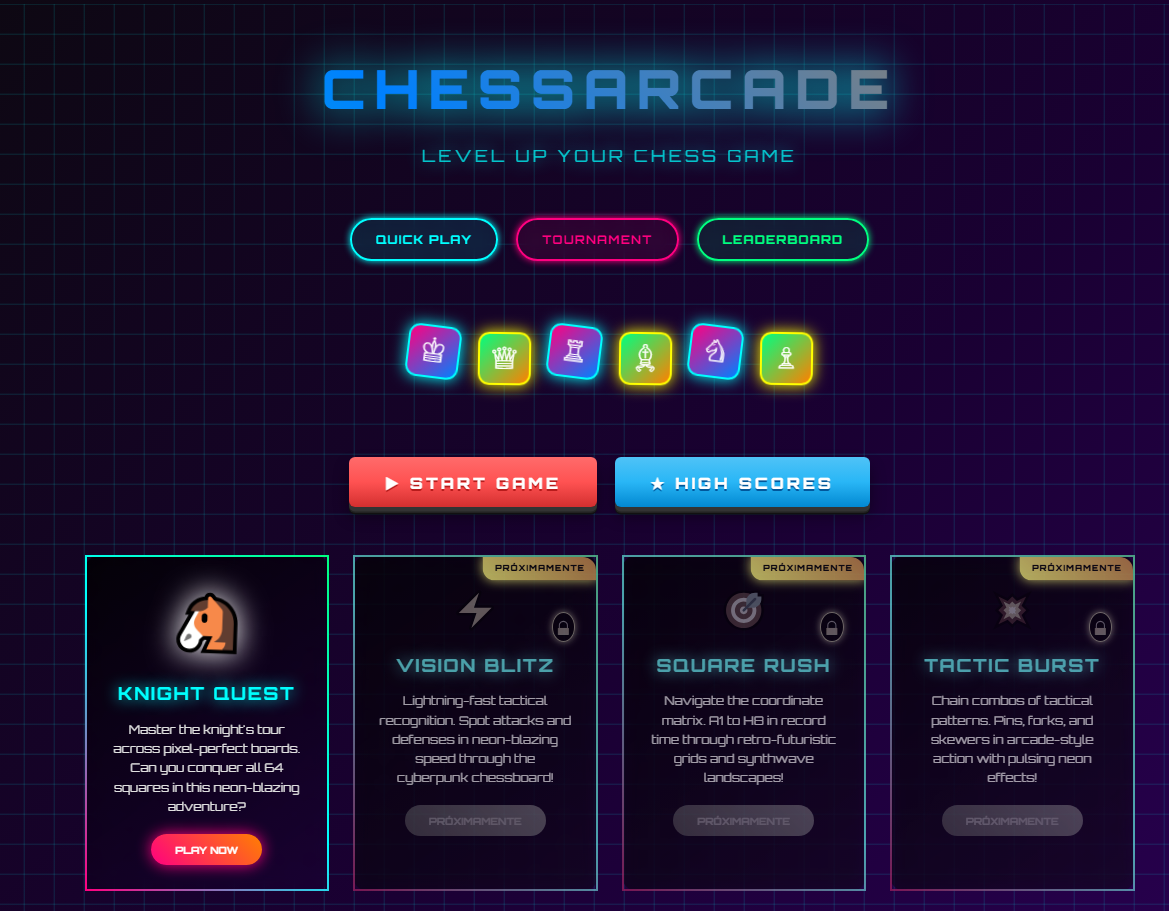
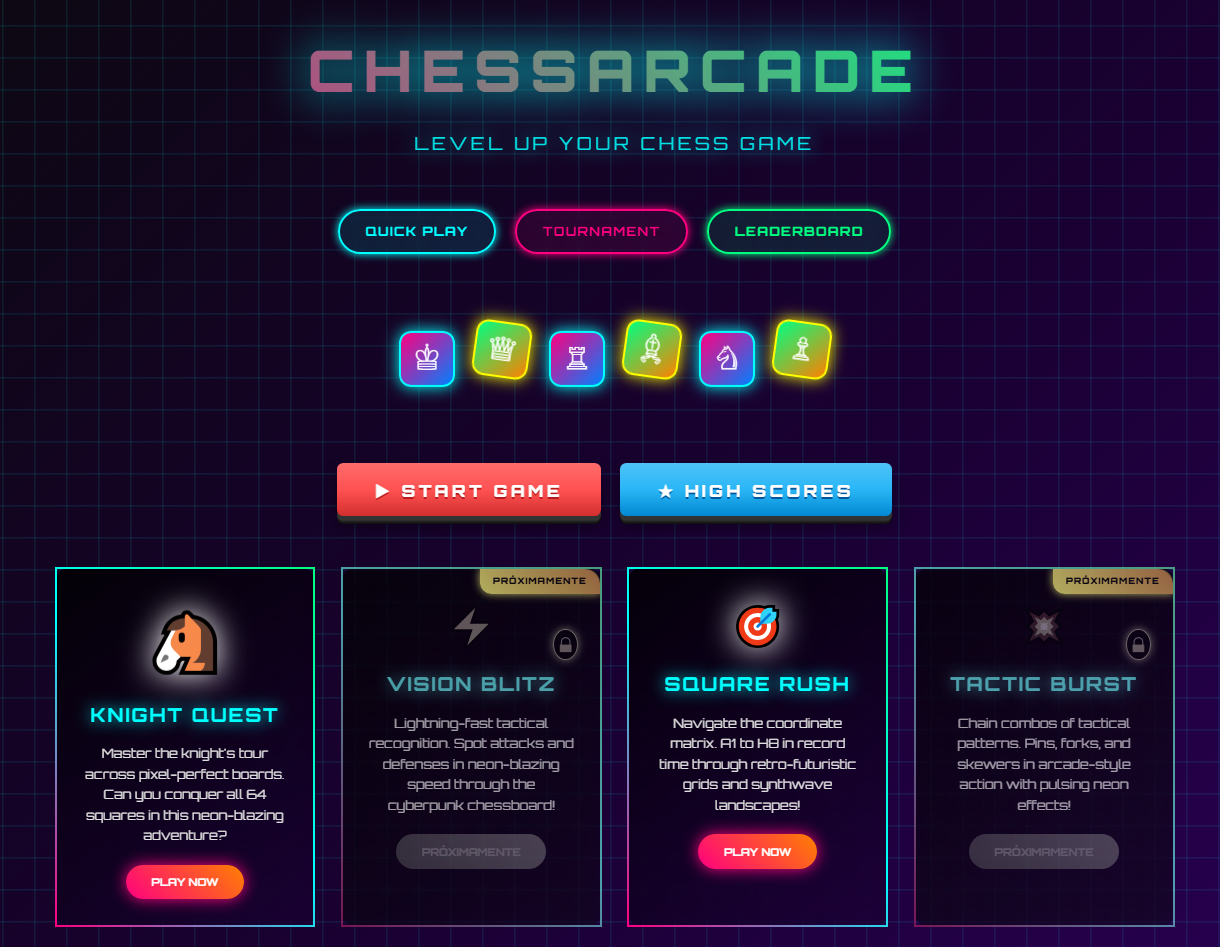
� docs: Complete README overhaul with Square Rush featured
✨ Major Documentation Update:
- Square Rush now prominently featured as first game
- Complete README restructure with detailed game descriptions
- Updated all links to use relative paths for local testing
- Added comprehensive Square Rush gameplay explanation
- Knight Quest maintained as second featured game

� Content Changes:
- New Square Rush section with features and target audience
- Updated player testimonials to include both games
- Corrected project structure showing square-rush as available
- Updated stats: 2/6 games released (was 1/6)
- Added dual-game play buttons with different colors

� README Improvements:
- Better mobile formatting with clear sections
- Educational focus highlighted for Square Rush
- Gameplay examples with ASCII-style previews
- More engaging descriptions for both games

Ready for GitHub publication! �

diff --git a/README.md b/README.md
@@ -2,7 +2,7 @@
 
 ![ChessArcade Banner](./assets/images/chessarcade-banner.png)
 
-## 🚀 [Try Knight Quest Now!](https://github.com/fasmote/ChessArcade/tree/main/games/knight-quest) | [🎮 Play Online](https://fasmote.github.io/ChessArcade/games/knight-quest/)
+## 🚀 [Play Square Rush](./games/square-rush/index.html) | [Play Knight Quest](./games/knight-quest/index.html) | [🎮 Try Both Games!](https://fasmote.github.io/ChessArcade/)
 
 ---
 
@@ -13,8 +13,8 @@
 **ChessArcade** is a collection of chess puzzle games with **neon retro-futuristic aesthetics** inspired by 80s synthwave culture. Transform traditional chess training into an exciting arcade experience with visual effects, electronic sounds, and gamification elements.
 
 #### ✨ **Current Games Available:**
-- **🐴 Knight Quest** - Master the knight's tour across pixel-perfect boards *(Available Now!)*
 - **🎯 Square Rush** - Navigate coordinates A1-H8 in record time *(Available Now!)*
+- **🐴 Knight Quest** - Master the knight's tour across pixel-perfect boards *(Available Now!)*
 - **⚡ Vision Blitz** - Lightning-fast tactical recognition *(Coming Soon)*
 - **💥 Tactic Burst** - Chain tactical patterns *(Coming Soon)*
 - **🏆 Checkmate Countdown** - Find mate in X moves *(Coming Soon)*
@@ -22,9 +22,9 @@
 
 #### 🎯 **Features:**
 - **Responsive Design**: Optimized for desktop and mobile
-- **Web Audio API**: Immersive synthetic soundscapes
-- **Progressive Difficulty**: From beginner 4x4 to expert 10x10 boards
-- **Smart Hints**: AI-powered suggestions using Warnsdorff's algorithm
+- **Progressive Difficulty**: From beginner-friendly to expert challenges
+- **Smart Learning**: Educational gameplay with immediate feedback
+- **Audio Control**: Immersive sound effects with easy toggle
 - **Local Storage**: Save your best scores and progress
 - **Modern CSS**: Smooth animations and neon visual effects
 
@@ -35,8 +35,8 @@
 **ChessArcade** es una colección de juegos de rompecabezas de ajedrez con **estética retro-futurista neón** inspirada en la cultura synthwave de los 80s. Transforma el entrenamiento tradicional de ajedrez en una experiencia arcade emocionante con efectos visuales, sonidos electrónicos y elementos de gamificación.
 
 #### ✨ **Juegos Disponibles Actualmente:**
-- **🐴 Knight Quest** - Domina el recorrido del caballo en tableros perfectos *(¡Disponible Ahora!)*
 - **🎯 Square Rush** - Navega coordenadas A1-H8 en tiempo récord *(¡Disponible Ahora!)*
+- **🐴 Knight Quest** - Domina el recorrido del caballo en tableros perfectos *(¡Disponible Ahora!)*
 - **⚡ Vision Blitz** - Reconocimiento táctico ultrarrápido *(Próximamente)*
 - **💥 Tactic Burst** - Encadena patrones tácticos *(Próximamente)*
 - **🏆 Checkmate Countdown** - Encuentra mate en X jugadas *(Próximamente)*
@@ -44,30 +44,85 @@
 
 #### 🎯 **Características:**
 - **Diseño Responsivo**: Optimizado para escritorio y móvil
-- **Web Audio API**: Paisajes sonoros sintéticos inmersivos
-- **Dificultad Progresiva**: Desde principiante 4x4 hasta experto 10x10
-- **Pistas Inteligentes**: Sugerencias con IA usando algoritmo de Warnsdorff
+- **Dificultad Progresiva**: Desde principiante hasta desafíos expertos
+- **Aprendizaje Inteligente**: Gameplay educativo con feedback inmediato
+- **Control de Audio**: Efectos de sonido inmersivos con toggle fácil
 - **Almacenamiento Local**: Guarda tus mejores puntuaciones y progreso
 - **CSS Moderno**: Animaciones fluidas y efectos visuales neón
 
 ---
 
-## 🎮 Knight Quest - Now Available!
+## 🎯 Square Rush - NEW! Perfect for Learning Chess Coordinates
 
-[![Knight Quest Screenshot](./assets/images/knight-quest-preview.png)](https://fasmote.github.io/ChessArcade/games/knight-quest/)
+[![Square Rush Screenshot](./assets/images/square-rush-preview.png)](./games/square-rush/index.html)
 
-### 🔗 **Quick Links:**
-- **🎯 [Play Knight Quest Online](https://fasmote.github.io/ChessArcade/games/knight-quest/)**
-- **📁 [View Source Code](https://github.com/fasmote/ChessArcade/tree/main/games/knight-quest)**
-- **📖 [Knight Quest Documentation](./games/knight-quest/README.md)**
+### 🎮 **What is Square Rush?**
+**Square Rush** is the perfect game to master chess board coordinates! Navigate from A1 to H8 in this fast-paced coordinate recognition challenge that makes learning chess notation fun and addictive.
+
+### ✨ **Game Features:**
+- **🎯 5 Progressive Levels**: From BABY STEPS (12s) to LITTLE MASTER (6s per coordinate)
+- **🎮 Combo System**: Build multipliers up to x3 for higher scores  
+- **👶 Beginner Friendly**: Optional coordinate labels for learning
+- **📱 Mobile Optimized**: Perfect touch controls for phones and tablets
+- **🔊 Sound Toggle**: Immersive audio feedback with easy on/off control
+- **📚 Educational**: Learn chess notation while having fun!
+
+### 🎪 **Perfect For:**
+- **Kids 6+**: Visual coordinate learning with big, clear labels
+- **Chess Beginners**: Master the board layout naturally
+- **Advanced Players**: Speed training for tournament preparation  
+- **Mobile Gaming**: Play anywhere, anytime on any device
+
+### 🎵 **Gameplay Experience:**
+```
+🎯 Target: E4
+⏱ Timer: 8.5s
+🏆 Score: 1,200 pts
+🔥 Combo: x2 multiplier
+```
+
+---
+
+## 🐴 Knight Quest - Master the Knight's Tour!
+
+[![Knight Quest Screenshot](./assets/images/knight-quest-preview.png)](./games/knight-quest/index.html)
+
+### 🎮 **What is Knight Quest?**
+**Knight Quest** challenges you to visit every square on the chessboard using only knight moves in this classic puzzle that has fascinated chess players for centuries.
+
+### ✨ **Game Features:**
+- **🏰 4 Board Sizes**: 4x4, 6x6, 8x8, and 10x10 Super Mode
+- **🧠 Smart Hints**: AI-powered suggestions using Warnsdorff's algorithm  
+- **🏆 Ranking System**: Local leaderboards with your best performances
+- **↩ Undo System**: Take back moves to find the perfect path
+- **📊 Progress Tracking**: See your improvement over time
+- **🎨 Neon Aesthetics**: Beautiful cyberpunk-inspired visuals
+
+### 🎯 **Challenge Yourself:**
+```
+🏰 Board: 8x8 (64 squares)
+⚡ Moves: 45/64 completed  
+💡 Hints: 2 remaining
+🏃♂ Time: 03:47
+```
+
+---
+
+### 🔗 **Play Both Games:**
+- **🎯 [Play Square Rush](./games/square-rush/index.html)** - Master coordinates A1-H8!
+- **🐴 [Play Knight Quest](./games/knight-quest/index.html)** - Conquer the knight's tour!  
+- **📁 [View Source Code](https://github.com/fasmote/ChessArcade)**
+- **📜 [Full Documentation](./docs/)**
 - **🐛 [Report Issues](https://github.com/fasmote/ChessArcade/issues)**
 
 ### 🏆 **What Players Say:**
-> *\"The neon aesthetics and sound design make chess puzzles addictive!\"*
+> *"Square Rush is perfect for learning chess coordinates - my 8-year-old loves the big letters!"*
 
-> *\"Perfect for mobile - finally a chess trainer that works beautifully on phone.\"*
+> *"Knight Quest's Warnsdorff hints teach real strategy while you play."*
 
-> *\"The Warnsdorff hints are genius - learns you strategy while you play.\"*
+> *"Finally chess trainers that work beautifully on mobile - the neon design is amazing!"*
+
+> *"Both games are addictive! My coordinate speed improved dramatically."*
 
 ---
 
@@ -75,7 +130,7 @@
 
 - **Frontend**: Vanilla HTML5, CSS3, JavaScript ES6+
 - **Styling**: CSS Grid, Flexbox, Custom Properties
-- **Audio**: Web Audio API for synthetic sounds  
+- **Audio**: Howler.js for cross-browser sound support
 - **Storage**: localStorage for persistence
 - **Responsive**: Mobile-first design approach
 - **Performance**: Optimized for 60fps animations
@@ -125,8 +180,8 @@ ChessArcade uses a custom **NeonChess Design System** featuring:
 │   └── 📁 images/                   # Screenshots and assets
 ├── 📁 games/
 │   ├── 📁 knight-quest/             # ✅ Knight's Tour game
+│   ├── 📁 square-rush/              # ✅ Coordinate training
 │   ├── 📁 vision-blitz/             # ⏳ Coming soon
-│   ├── 📁 square-rush/              # ⏳ Coming soon
 │   ├── 📁 tactic-burst/             # ⏳ Coming soon
 │   ├── 📁 checkmate-countdown/      # ⏳ Coming soon
 │   └── 📁 memory-matrix/            # ⏳ Coming soon
@@ -155,26 +210,28 @@ This project is licensed under the MIT License - see the [LICENSE](./LICENSE) fi
 
 ## 🔗 **Links & Resources**
 
-- **🎮 [Play Knight Quest](https://fasmote.github.io/ChessArcade/games/knight-quest/)**
+- **🎯 [Play Square Rush](./games/square-rush/index.html)**
+- **🐴 [Play Knight Quest](./games/knight-quest/index.html)**
 - **📁 [Main Repository](https://github.com/fasmote/ChessArcade)**
 - **🐦 [Follow Updates on GitHub](https://github.com/fasmote)**
 - **📧 [Contact](https://github.com/fasmote)**
 
 ## 🏅 **Achievements & Stats**
 
-- **🎯 Games Released**: 1/6
+- **🎯 Games Released**: 2/6 (Square Rush + Knight Quest)
 - **⭐ GitHub Stars**: Growing!
-- **🔧 Last Updated**: January 2025
+- **🔧 Last Updated**: September 2025
 - **📱 Mobile Support**: 100%
 - **🌐 Browser Support**: Chrome, Firefox, Safari, Edge
 
 ---
 
-<div align=\"center\">
+<div align="center">
 
 ### 🎮 **Ready to Level Up Your Chess Game?**
 
-[![Play Now](https://img.shields.io/badge/🎯_Play_Knight_Quest-FF0080?style=for-the-badge)](https://fasmote.github.io/ChessArcade/games/knight-quest/)
+[![Play Square Rush](https://img.shields.io/badge/🎯_Play_Square_Rush-FF8000?style=for-the-badge)](./games/square-rush/index.html)
+[![Play Knight Quest](https://img.shields.io/badge/🐴_Play_Knight_Quest-FF0080?style=for-the-badge)](./games/knight-quest/index.html)
 [![GitHub](https://img.shields.io/badge/⭐_Star_on_GitHub-00FFFF?style=for-the-badge&logo=github)](https://github.com/fasmote/ChessArcade)
 [![Download](https://img.shields.io/badge/📱_Open_Source-00FF80?style=for-the-badge&logo=download)](https://github.com/fasmote/ChessArcade)
 
